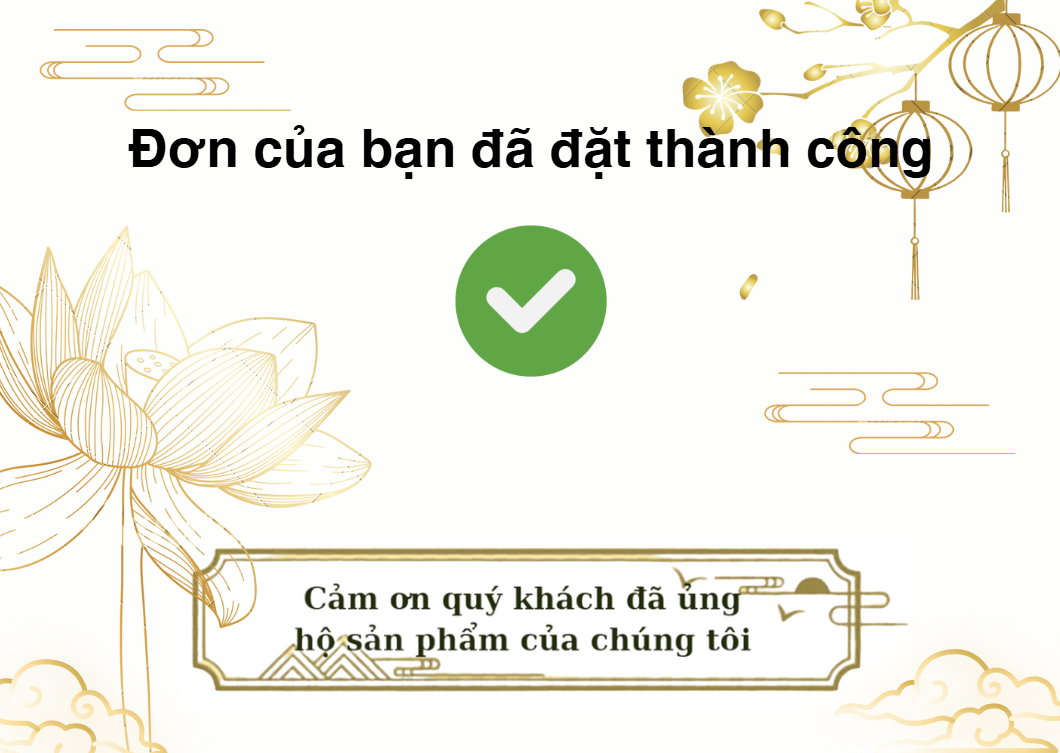
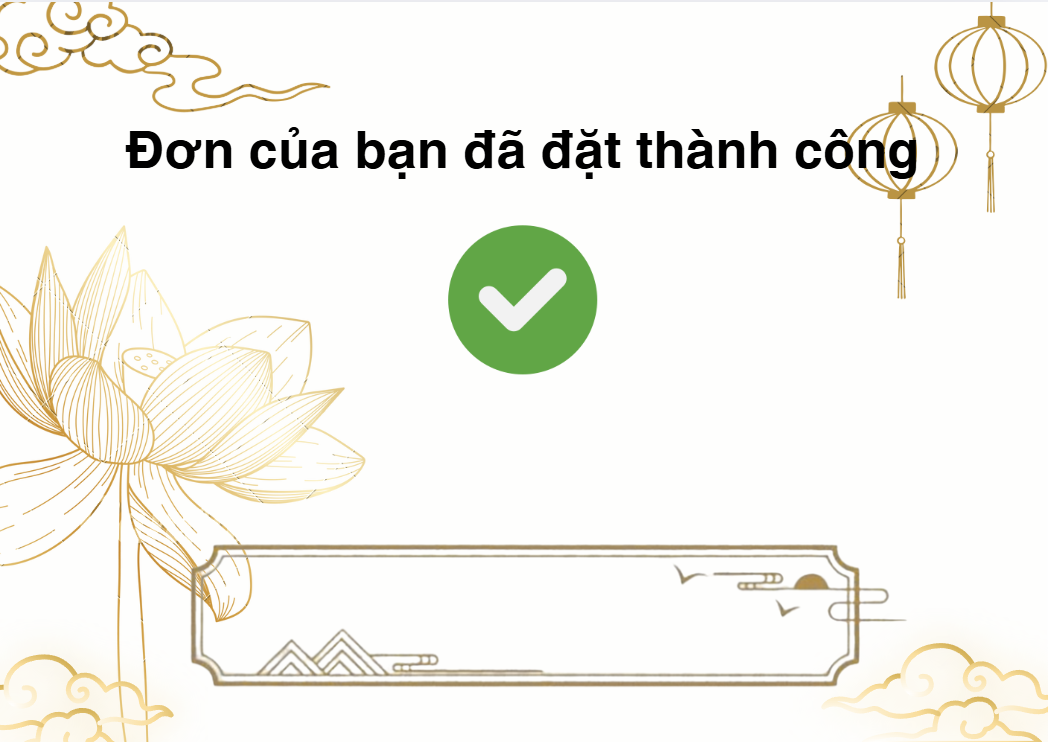
Update success page

diff --git a/Doanlesg/frontend/src/components/Success/Success.css b/Doanlesg/frontend/src/components/Success/Success.css
@@ -1,22 +1,22 @@
 .success-page {
   position: relative;
-  width: 100%;
-  max-width: 1000px;
-  margin: 0 auto;
-  aspect-ratio: 10 / 13; /* Giữ tỉ lệ khung hình, có thể chỉnh lại nếu ảnh khác */
-  background-image: url('../../assets/Success.png');
-  background-size: contain; /* Auto scale hình đúng tỉ lệ */
-  background-repeat: no-repeat;
-  background-position: center;
-  display: flex;
-  align-items: center;
-  justify-content: center;
+    width: 100%;
+    max-width: 1000px;
+    background-image: url('../../assets/Success.png');
+    background-size: 900px; /* phủ hết khung */
+    background-repeat: no-repeat;
+    background-position: center;
+    display: flex;
+    align-items: center;
+    justify-content: center;
+    margin-top: 0px;
+    height: 700px;
 }
 
 /* Nút nằm giữa hình */
 .success-btn {
   position: absolute;
-  top: 55%; /* chính giữa theo chiều cao */
+  top: 60%; /* chính giữa theo chiều cao */
   left: 50%;
   transform: translate(-50%, -50%);
   background-color: #800000;
@@ -28,6 +28,7 @@
   cursor: pointer;
   text-decoration: none;
   transition: background-color 0.3s ease;
+  width: 200px;
 }
 
 .success-btn:hover {
@@ -45,4 +46,10 @@
     font-size: 0.9rem;
     padding: 10px 20px;
   }
+}
+
+.success-notification {
+margin-top: 440px;
+font-weight: bold;
+font-size: 16px;
 }

diff --git a/Doanlesg/frontend/src/components/Success/Success.js b/Doanlesg/frontend/src/components/Success/Success.js
@@ -14,14 +14,13 @@ function Success() {
     return (
         <div className="success-page">
             <div className="success-card">
-                <div className="success-icon">✓</div>
-                <h2>Đặt Hàng Thành Công!</h2>
+              <div className="success-notification">
                 <p>Cảm ơn bạn đã tin tưởng và đặt hàng tại DoleSaigon.</p>
                 {orderId && (
                     <p className="order-code">Mã đơn hàng của bạn là: <strong>{orderCode || orderId}</strong></p>
                 )}
                 <p>Chúng tôi sẽ liên hệ với bạn để xác nhận đơn hàng trong thời gian sớm nhất.</p>
-
+              </div>
                 <div className="success-actions">
                     {orderId && (
                         <button
